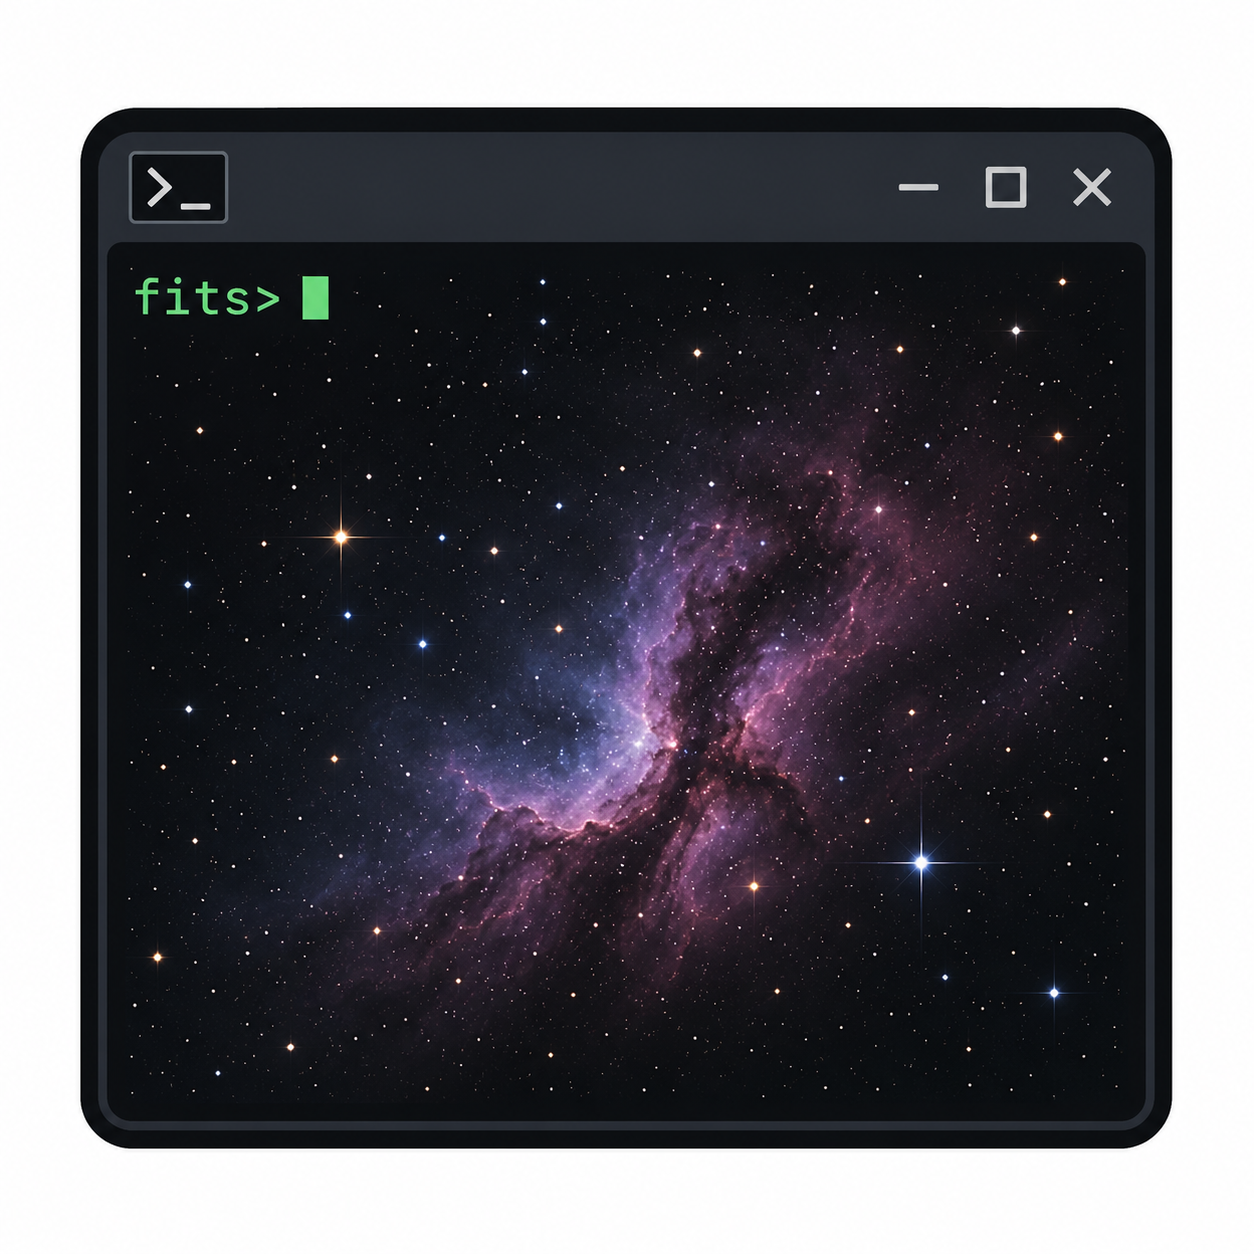
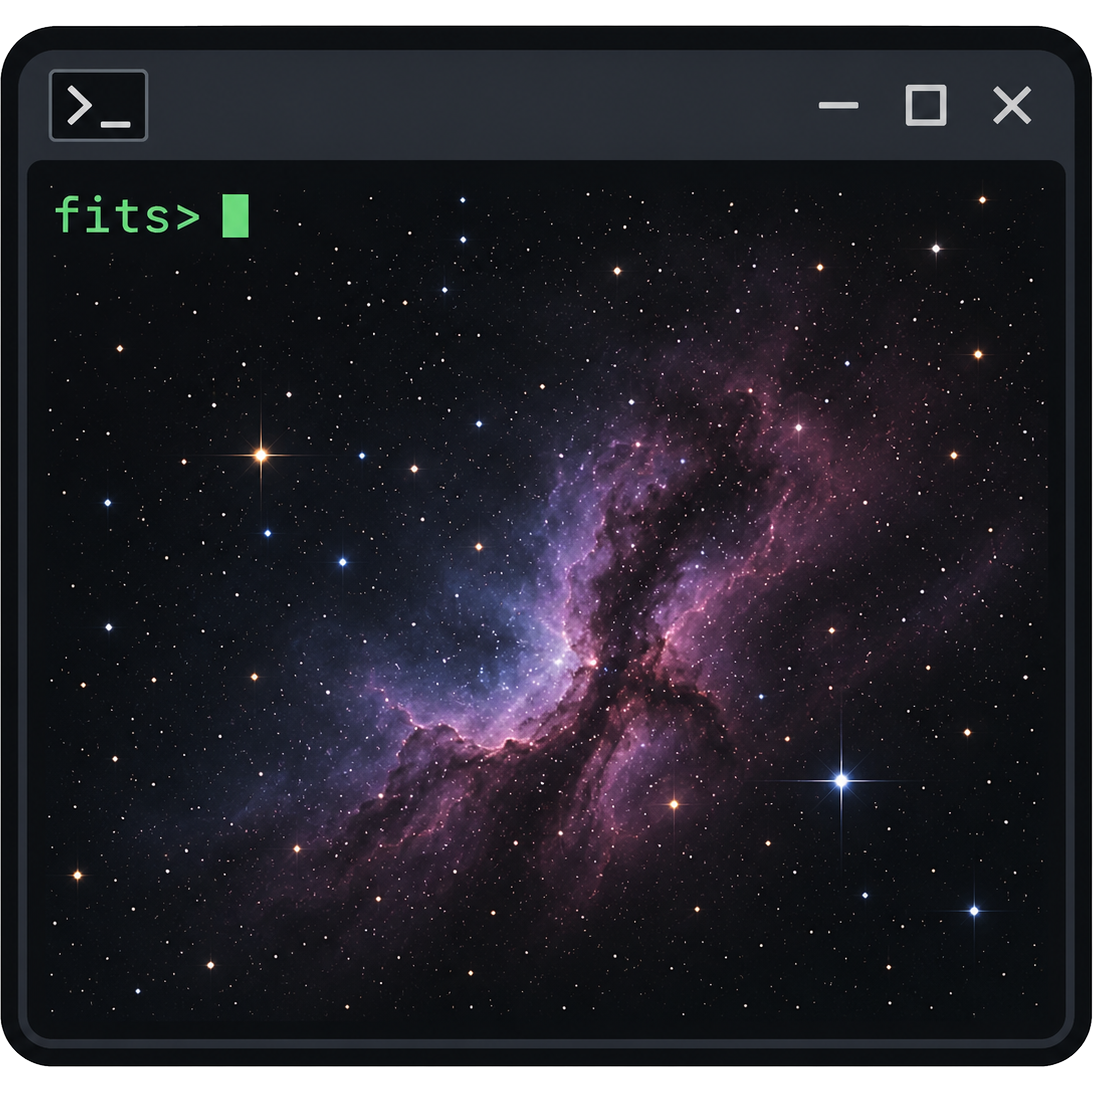
Add native distribution packages for FitSmith (macOS, Linux, Windows)
Wire up the icon and packaging scripts around the cargo-bundle metadata
already scaffolded in fitsmith/Cargo.toml, so FitSmith can be packaged
as a .dmg (macOS), .deb/.rpm (Linux), and .msi (Windows) with a proper
app icon and no stray console window on Windows.

diff --git a/fitsmith/src/main.rs b/fitsmith/src/main.rs
@@ -6,6 +6,10 @@
 //! and pixel statistics. The Tools menu's Export writes the working set out as
 //! FITS, TIFF, JPEG or PNG, honoring the current debayer/stretch view.
 
+// Release builds are packaged as a GUI app; suppress the console window Windows
+// would otherwise open behind it. Debug builds keep the console for eprintln/panic output.
+#![cfg_attr(not(debug_assertions), windows_subsystem = "windows")]
+
 mod cache;
 mod chart;
 mod chart_svg;

diff --git a/fitsmith/readme.md b/fitsmith/readme.md
@@ -129,6 +129,32 @@ You can also pass files or folders on the command line to seed the working set:
 cargo run -p fitsmith -- path/to/images/
 ```
 
+## Packaging
+
+FitSmith can be packaged as a native installer per OS via [`cargo-bundle`](https://github.com/burtonageo/cargo-bundle)
+(install once with `cargo install cargo-bundle`). Two wrapper scripts drive it — there's no
+CI, since Slint's per-OS windowing/font dependencies mean each package has to be built on
+that OS:
+
+```shell
+./fitsmith/scripts/package-unix.sh       # macOS -> .dmg, Linux -> .deb + .rpm
+./fitsmith/scripts/package-windows.ps1    # Windows -> .msi (needs the WiX Toolset on PATH)
+```
+
+On Linux, building the `.rpm` needs `rpmbuild` on `PATH` (`sudo dnf install rpm-build` on
+Fedora/RHEL, `sudo apt install rpm` on Debian/Ubuntu); the script skips it with an install
+hint if missing, and still builds the `.deb`.
+
+Output lands under `target/release/bundle/<osx|deb|rpm|msi>/`. Packages are unsigned — no Apple
+Developer ID or Windows code-signing certificate is used — so first launch shows a Gatekeeper
+warning on macOS (right-click the app -> Open) and a SmartScreen warning on Windows (More
+info -> Run anyway). If you change the app icon, regenerate the sizes in `fitsmith/assets/`
+(`32x32.png`, `128x128.png`, `[email redacted]`, `256x256.png`, `[email redacted]`) from the
+source image and cargo-bundle will convert them to `.icns`/`.ico` as needed.
+
+Because FitSmith links Slint under the GPLv3 (see below), any packaged binary you distribute
+carries that obligation — see [Slint and licensing](#slint-and-licensing).
+
 ## Slint and licensing
 
 FitSmith's user interface is built with [Slint](https://slint.dev/). Slint is available under